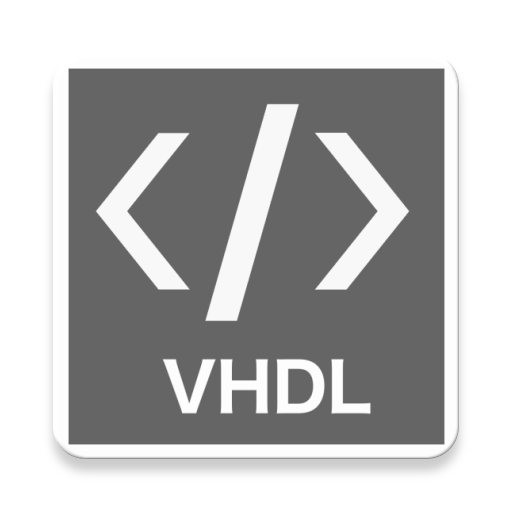
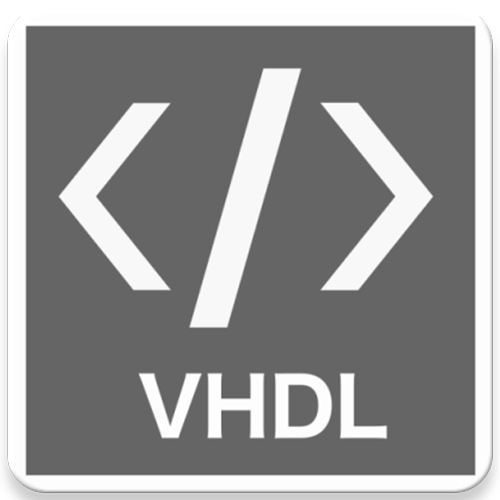
Aesthetic fixes

diff --git a/index.html b/index.html
@@ -113,7 +113,7 @@
           My Skills
         </h2>
         <p class="col-lg-8 px-0">
-          These are the programming languagesI feel most comfortable with. This list also includes some of my soft skills.
+          These are the programming languages and technologies I feel most comfortable with. This list also includes some of my soft skills.
         </p>
       </div>
       <div class="product_container">
@@ -127,9 +127,6 @@
                 <h4>
                   Java
                 </h4>
-                <a href="">
-                  Check
-                </a>
               </div>
             </div>
           </div>
@@ -142,9 +139,18 @@
                 <h4>
                   C/C++
                 </h4>
-                <a href="">
-                  Check
-                </a>
+              </div>
+            </div>
+          </div>
+          <div class="item">
+            <div class="box">
+              <div class="img-box">
+                <img src="images/cs.png" alt="">
+              </div>
+              <div class="detail-box">
+                <h4>
+                  C#
+                </h4>
               </div>
             </div>
           </div>
@@ -157,9 +163,18 @@
                 <h4>
                   VHDL
                 </h4>
-                <a href="">
-                  Check
-                </a>
+              </div>
+            </div>
+          </div>
+          <div class="item">
+            <div class="box">
+              <div class="img-box">
+                <img src="images/opencv.png" alt="">
+              </div>
+              <div class="detail-box">
+                <h4>
+                  OpenCV
+                </h4>
               </div>
             </div>
           </div>
@@ -172,9 +187,6 @@
                 <h4>
                   Web Development
                 </h4>
-                <a href="">
-                  Check
-                </a>
               </div>
             </div>
           </div>
@@ -205,7 +217,7 @@
             <p class="detail_p_mt">
               I am Amani Brik, from Tunisia. I am currently pursuing a bachelor degree in computer science engineering in Budapest University of Technology and Economics.
               I got the chance to study in Hungary through the Stipendium Hungaricum Scholarship due to my excellent grades in High School.
-              As you can see from my Education section, I am quite serious when it comes to studying. I believe this trait will stick to even in my work environment.
+              As you can see from my Education section, I am quite serious when it comes to studying. I believe this trait will stick to me even in my work environment.
               <br><br>
               As of now, I am searching for an internship opportunity that would let me expand my knowledge and apply my skills.  
             </p>
@@ -299,6 +311,30 @@
             <div class="item">
               <div class="box">
                 <div class="img-box">
+                  <img src="images/opencvNotTransparent.jpg" alt="" class="img-1">
+                </div>
+                <div class="detail-box">
+                  <h5>
+                    Cookie Cutter Game 
+                  </h5>
+                  <h6>
+                    C++, OpenCV, Win32
+                  </h6>
+                  <p>
+                    This is a project that I did for my own leisure. I learned how to use an open image processing
+                    library to create my own project. I also got to apply my theoretical knowledge in Win32. This
+                    is certainly a project that I enjoyed working on, and that I am very proud of.
+                  </p>
+                  <br>
+                  <a href="https://github.com/Amani215/CookieCutter" target="_blank" class="github-btn">
+                    Github Repository
+                  </a>
+                </div>
+              </div>
+            </div>
+            <div class="item">
+              <div class="box">
+                <div class="img-box">
                   <img src="images/xilinx.png" alt="" class="img-1">
                 </div>
                 <div class="detail-box">
@@ -323,7 +359,7 @@
             <div class="item">
               <div class="box">
                 <div class="img-box">
-                  <img src="images/java.png" alt="" class="img-1">
+                  <img src="images/javaNotTransparent.png" alt="" class="img-1">
                 </div>
                 <div class="detail-box">
                   <h5>
@@ -370,7 +406,7 @@
             <div class="item">
               <div class="box">
                 <div class="img-box">
-                  <img src="images/java.png" alt="" class="img-1">
+                  <img src="images/javaNotTransparent.png" alt="" class="img-1">
                 </div>
                 <div class="detail-box">
                   <h5>

diff --git a/css/style.css b/css/style.css
@@ -319,7 +319,11 @@ a:focus {
 }
 
 .slider_section .img-box img {
-  width: 100%;
+  /*width: 100%;*/
+  max-width: 225px;
+  max-height: 190px;
+  min-width: 225px;
+  min-height: 190px;
 }
 
 .slider_section .carousel_btn-box {
@@ -354,7 +358,7 @@ a:focus {
 
 .product_section .product_container {
   position: relative;
-  background-color: #f4f2ec;
+  background-color: #f0f0f0;
   padding: 30px 0;
   margin: 0 75px;
 }
@@ -637,7 +641,8 @@ a:focus {
 }
 
 .client_section .box .img-box img {
-  width: 100%;
+  width: 100px;
+  height: 100px;
   border-radius: 100%;
   border: 5px solid #be2623;
 }
